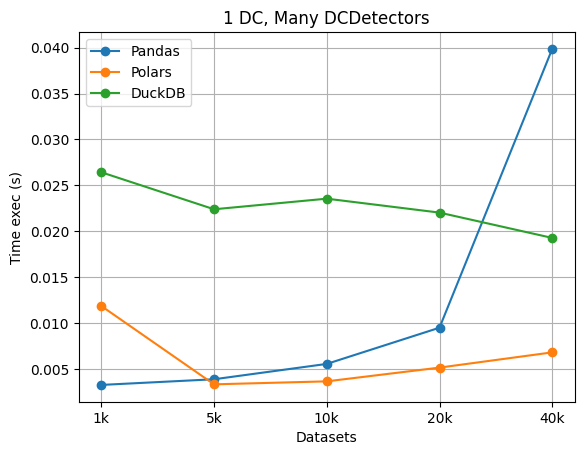
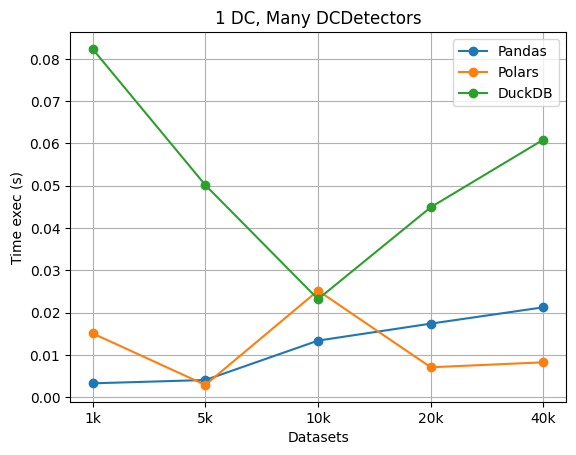
18.09.23: updating change on detectors

Changed region(s): [[0.0, 0.0, 1.0, 0.9846], [0.7188, 0.8615, 0.7812, 0.9538], [0.7188, 0.2769, 0.7812, 0.3385]]

diff --git a/denial-constraint-violations/v0.0.2/benchmark/benchmark.py b/denial-constraint-violations/v0.0.2/benchmark/benchmark.py
@@ -5,13 +5,15 @@ from dcd.core.dc import DC
 from dcd.core.session import Session 
 from dcd.core.dc_reader import DCReader
 from dcd.core.dc_detector import DCDetector
-from dcd.duck.dc_detector import DCDetector as DuckDCDetector
 from dcd.polars.dc_detector import DCDetector as PolarsDCDetector
+from dcd.duck.dc_detector import DCDetector as DuckDCDetector
+from dcd.duck.dc_detector_sql import DCDetector as DuckDistinticDCDetector
 
 ################ 1 DC, Many DcDetectors #########################
 
 dc_detector = DCDetector()
 duck_dc_detector = DuckDCDetector()
+duck_dc_detector_distinct = DuckDistinticDCDetector()
 polars_dc_detector = PolarsDCDetector()
 
 root_path = 'testdatas'
@@ -19,17 +21,19 @@ ext = 'csv'
 
 datasets = ['employees-1k-noisy', 'employees-5k-noisy', 'employees-10k-noisy', 'employees-20k-noisy', 'employees-40k-noisy']
 
-results = [[], [], []]
+results = [[], [], [], []]
 
 for dataset in datasets:
   
   dc_reader1 = DCReader('benchmark/dc.txt')
   dc_reader2 = DCReader('benchmark/dc.txt')
   dc_reader3 = DCReader('benchmark/dc.txt')
+  dc_reader4 = DCReader('benchmark/dc.txt')
 
   ss1 = Session(f'{root_path}/{dataset}.{ext}', dc_reader1, dc_detector)
-  ss2 = Session(f'{root_path}/{dataset}.{ext}', dc_reader3, polars_dc_detector)
-  ss3 = Session(f'{root_path}/{dataset}.{ext}', dc_reader2, duck_dc_detector)
+  ss2 = Session(f'{root_path}/{dataset}.{ext}', dc_reader2, polars_dc_detector)
+  ss3 = Session(f'{root_path}/{dataset}.{ext}', dc_reader3, duck_dc_detector)
+  # ss4 = Session(f'{root_path}/{dataset}.{ext}', dc_reader4, duck_dc_detector_distinct)
 
   spotify_sessions = [ ss1, ss2, ss3 ]
 

diff --git a/denial-constraint-violations/v0.0.2/dcd/duck/dc_detector_sql.py b/denial-constraint-violations/v0.0.2/dcd/duck/dc_detector_sql.py
@@ -1,12 +1,9 @@
 from pandas import DataFrame
 import duckdb
-from typing import List
-from functools import reduce
 
 from dcd.interfaces.dc import IDC
 from dcd.interfaces.dc_detector import IDCDetector
-from dcd.types.predicate import Predicate, PREDICATE_OPERATOR, get_PREDICATE_OPERATOR_by_key
-from dcd.types.common import PairIdList, AdjacencyList
+from dcd.types.common import PairIdList
 
 class DCDetector(IDCDetector):
   
@@ -26,9 +23,6 @@ class DCDetector(IDCDetector):
     return pairs
   
   def __dc_predicates_to_SQL_query(self, dc: IDC):
-    # return """
-    #   SELECT DISTINCT t1.ID, t2.ID FROM T AS t1, T AS t2 WHERE t1.salary > t2.salary AND t1.hiring_year > t2.hiring_year AND t1.id <> t2.id;
-    # """
     
     scalar_predicates = list(filter(lambda p: not p.is_relational, dc.get_predicates()))
     relational_predicates = [p for p in dc.get_predicates() if p not in scalar_predicates]
@@ -61,7 +55,7 @@ class DCDetector(IDCDetector):
         use_AND_clause = True
         sql_query += f" t1.{sps.left_side.col_name_or_value} {sps.operator.value} {sps.right_side.col_name_or_value}"
     
-    sql_query += " AND t1.id <> t2.id"
+    # sql_query += " AND t1.id <> t2.id"
 
     sql_query += ";"
 

diff --git a/denial-constraint-violations/v0.0.2/dcd/duck/dc_detector.py b/denial-constraint-violations/v0.0.2/dcd/duck/dc_detector.py
@@ -1,12 +1,9 @@
 from pandas import DataFrame
 import duckdb
-from typing import List
-from functools import reduce
 
 from dcd.interfaces.dc import IDC
 from dcd.interfaces.dc_detector import IDCDetector
-from dcd.types.predicate import Predicate, PREDICATE_OPERATOR, get_PREDICATE_OPERATOR_by_key
-from dcd.types.common import PairIdList, AdjacencyList
+from dcd.types.common import PairIdList
 
 class DCDetector(IDCDetector):
   
@@ -26,6 +23,11 @@ class DCDetector(IDCDetector):
     return pairs
   
   def __dc_predicates_to_SQL_query(self, dc: IDC):
+    # return """
+    # SELECT t1.id as id1, t2.id as id2
+    # FROM T t1
+    # JOIN T t2 ON t1.salary > t2.salary AND t1.hiring_year > t2.hiring_year AND t1.salary > 37800;
+    # """
     scalar_predicates = list(filter(lambda p: not p.is_relational, dc.get_predicates()))
     relational_predicates = [p for p in dc.get_predicates() if p not in scalar_predicates]
     

diff --git a/denial-constraint-violations/v0.0.2/run.py b/denial-constraint-violations/v0.0.2/run.py
@@ -8,7 +8,7 @@ from dcd.polars.dc_detector import DCDetector as PolarsDCDetector
 
 # exit(0)
 NOISY = True
-ALIAS = '10k'
+ALIAS = '1k'
 
 DC_FILE = 'testdatas/employees-dc.txt'
 DATASET_FILE = f'testdatas/employees-{ALIAS}-noisy.csv' if NOISY else f'testdatas/employees-{ALIAS}.csv'
@@ -35,7 +35,7 @@ for i, detector in enumerate(detectors):
   
   violations = session.get_violations()
   
-  # print(len(violations))
+  print(len(violations))
   print(end_time - cur_time)
-  # print(violations)
+  print(violations)
   print()
